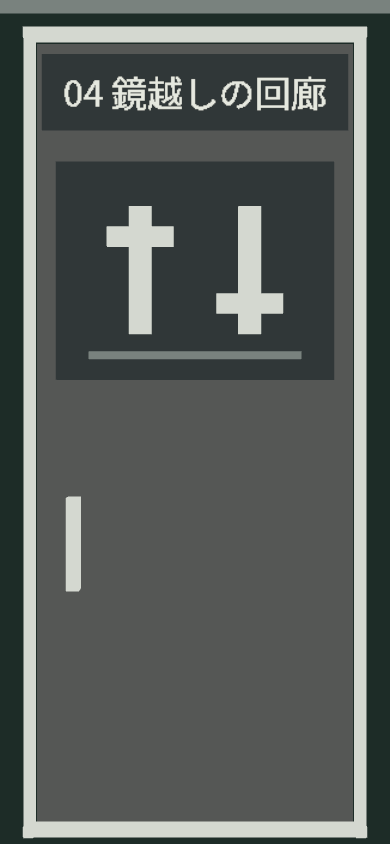
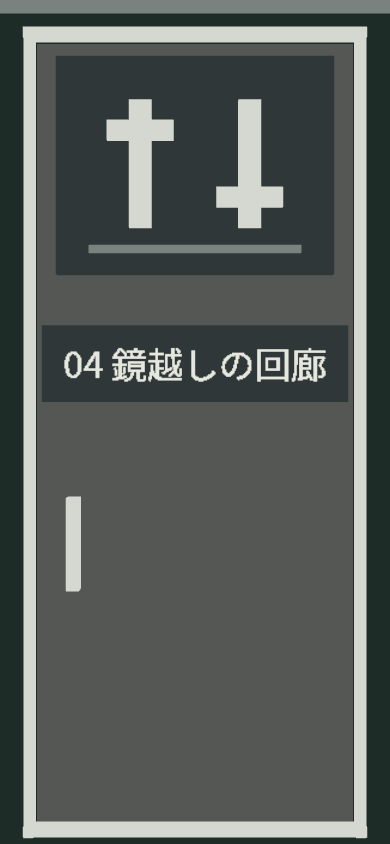
fix: keep theatre destination sign visible near handoff

Changed region(s): [[0.0923, 0.0616, 0.8923, 0.4929]]

diff --git a/src/rendering/firstPerson/TheatreScene.tsx b/src/rendering/firstPerson/TheatreScene.tsx
@@ -124,7 +124,7 @@ export function TheatreScene({ world, runtime, resources, reducedMotion, onFrame
       <mesh geometry={resources.box} material={t.dark} scale={[.54,.70,.08]}/>
       <mesh geometry={resources.box} material={t.amber} position={[0,0,i===0?-.07:.07]} scale={[.34,.13,.13]}/>
     </group>)}
-    <group name="control-room-paired-bar-landmark" position={[0,2.10,24.2]}>
+    <group name="control-room-paired-bar-landmark" position={[0,2.45,24.2]}>
       <mesh geometry={resources.box} material={t.dark} scale={[.92,.72,.025]}/>
       {[-.18,.18].map(x=><mesh key={x} geometry={resources.box} material={t.label} position={[x,0,-.018]} scale={[.075,.42,.012]}/>)}
       {[-1,1].map(sign=><mesh key={'slider'+sign} name="control-room-slider-mark" geometry={resources.box} material={t.label} position={[sign*.18,sign*.11,-.02]} scale={[.22,.065,.014]}/>)}
@@ -141,7 +141,7 @@ export function TheatreScene({ world, runtime, resources, reducedMotion, onFrame
       <mesh geometry={resources.box} material={t.label} position={[0, .17, -.105]} scale={[1.2, .035, .035]} />
       <mesh name="theatre-mirror-threshold-handle" geometry={resources.box} material={t.label} position={[.42, 1.18, -.14]} scale={[.045, .32, .045]} />
       <mesh name="theatre-mirror-threshold-sign" geometry={resources.plane} material={resources.destinationSign('04')}
-        position={[0, 2.73, -.16]} rotation={[0, Math.PI, 0]} scale={[1.05, .2625, 1]} />
+        position={[0, 1.8, -.16]} rotation={[0, Math.PI, 0]} scale={[1.05, .2625, 1]} />
       <mesh name="theatre-mirror-threshold-light" geometry={resources.box} material={t.amber} position={[0, 3.32, -.3]} scale={[.72, .05, .35]} />
     </group>
     <group name="maintenance-tool-landmark" position={[-5.20,2.16,10.64]}>

diff --git a/docs/qa-goal013/README.md b/docs/qa-goal013/README.md
@@ -82,3 +82,7 @@ Goal 012の同条件before/after比較と検証器は [GOAL-012-EXTENSION-PROOF]
 終端扉の追加監査で、無地だった銘板へ次エリアの日本語名と番号を入れた。[01→02](area01-vault-threshold.png)、[02→03](area02-theatre-threshold.png)、[03→04](area03-mirror-threshold.png)を同じ390×844の実 `ChapterScene` / Software WebGL視点で再生成し、3枚を開いて文字の向き・可読性、扉と取っ手を確認した。`scripts/qa-chapter-thresholds.cjs` は銘板のDataTextureに文字画素があり、扉面・取っ手・銘板がQA cameraの視野内にあることを検査する。`area01-03-threshold-report.json` の3画像、tool、読み込んだ125 sourceのハッシュは現行ソースに対応する。これは最終扉の先に手動配置したQA cameraであり、解錠前からの実controller録画、製品HUD、native Canvas、端末上での文字の大きさ・視認性を証明しない。
 
 共有resourceの追加が04/05のreportへ及ぶため、04控えめ・標準捕捉復帰、05自然成功・開け直し復旧の4本を現行ソースで実controller/StageSceneから再収録した。4本のMP4は保持済みファイルとbyte一致した。鏡の左右同期比較も再生成して動画・静止画hashが同一、05の人数表示の6画像も同じhashだった。reportは現行ソースhashへ更新し、04は各114 source、05は各112 source。WebGLの最大draw calls/triangles、反射RT、資源解放0、browser error 0を維持し、CPU計測値だけ今回のローカル実測に更新した。既存のbefore/after短編は過去版同士の比較資料であり、今回のsourceとbyte同一と主張しない。
+
+完走ログの引き継ぎ位置 `(4, 1.6, 24.6)`、`(3, 1.6, 29)`、`(0, 1.6, 23.6)` でも同じ実 `ChapterScene` を手動cameraで描き、[01](area01-vault-handoff.png)、[02](area02-theatre-handoff.png)、[03](area03-mirror-handoff.png)を開いた。扉に近い引き継ぎ位置では01と03の銘板の左右が画角から切れ、02だけ全文字が収まる。[引き継ぎ位置のreport](area01-03-handoff-report.json)に四隅の投影範囲、画像/tool/source hashを残した。これは実controllerのcameraや解錠済みsceneの撮影ではない。handoff前の近接視界で文字を読み続けられるという主張には使わない。
+
+03の銘板は従来の上端では引き継ぎ位置で完全に画角外だったため、扉の視線に近い高さへ下げ、上の二本線の案内装飾と重ならないよう装飾を上げた。[03の更新画像](area03-mirror-threshold.png)を開くと「04 鏡越しの回廊」は装飾の下に読める。`node scripts/qa-chapter-thresholds.cjs` は、扉手前の3視点で銘板の中心だけでなく四隅も画角内にあることを要求する。`--handoff` は上記3つの引き継ぎ位置を別reportへ記録する。両モードとも390×844、初期stage world、手動camera、Software WebGLで、製品HUD、native Canvas、iPhoneの視認性を証明しない。

diff --git a/docs/CHAPTER-1-CAMPAIGN.md b/docs/CHAPTER-1-CAMPAIGN.md
@@ -17,3 +17,5 @@
 01〜03の既存最終扉の先も、sceneの終端壁に次区画の扉面・枠・小灯を表示する。worldの境界判定や保存遷移は変えない。各stageの終端床上に置いたQA視点で3枚のSoftware WebGL静止画を確認した。実controllerの到達・handoffは別の連続ログで確認済みだが、この静止画は同じ操作録画やiPhone表示を示さない。証拠と範囲は `docs/qa-goal013/README.md`。
 
 01〜03の終端扉には次のエリア番号と日本語名を描いた。02「収蔵庫」、03「映写室」、04「鏡越しの回廊」の静的銘板は、各sceneのresource ownerが必要時に作るDataTextureで、退出時に解放する。旧最終扉のworld判定・保存handoffは変えていない。390×844の手動QA cameraで文字と扉の視認性を確認したが、native iPhoneの画面と遷移操作は未確認。
+
+扉手前のQA視点では3枚とも全文字が画角内にある。完走ログ上のhandoff位置にcameraを置くと01と03は扉が近すぎて文字の左右が切れ、02は収まる。03の銘板を目線に近づけ、完全に画角外になる状態は解消した。これは手動camera・初期stage worldの静止画比較であり、実プレイのカメラ操作や端末の可読性ではない。
